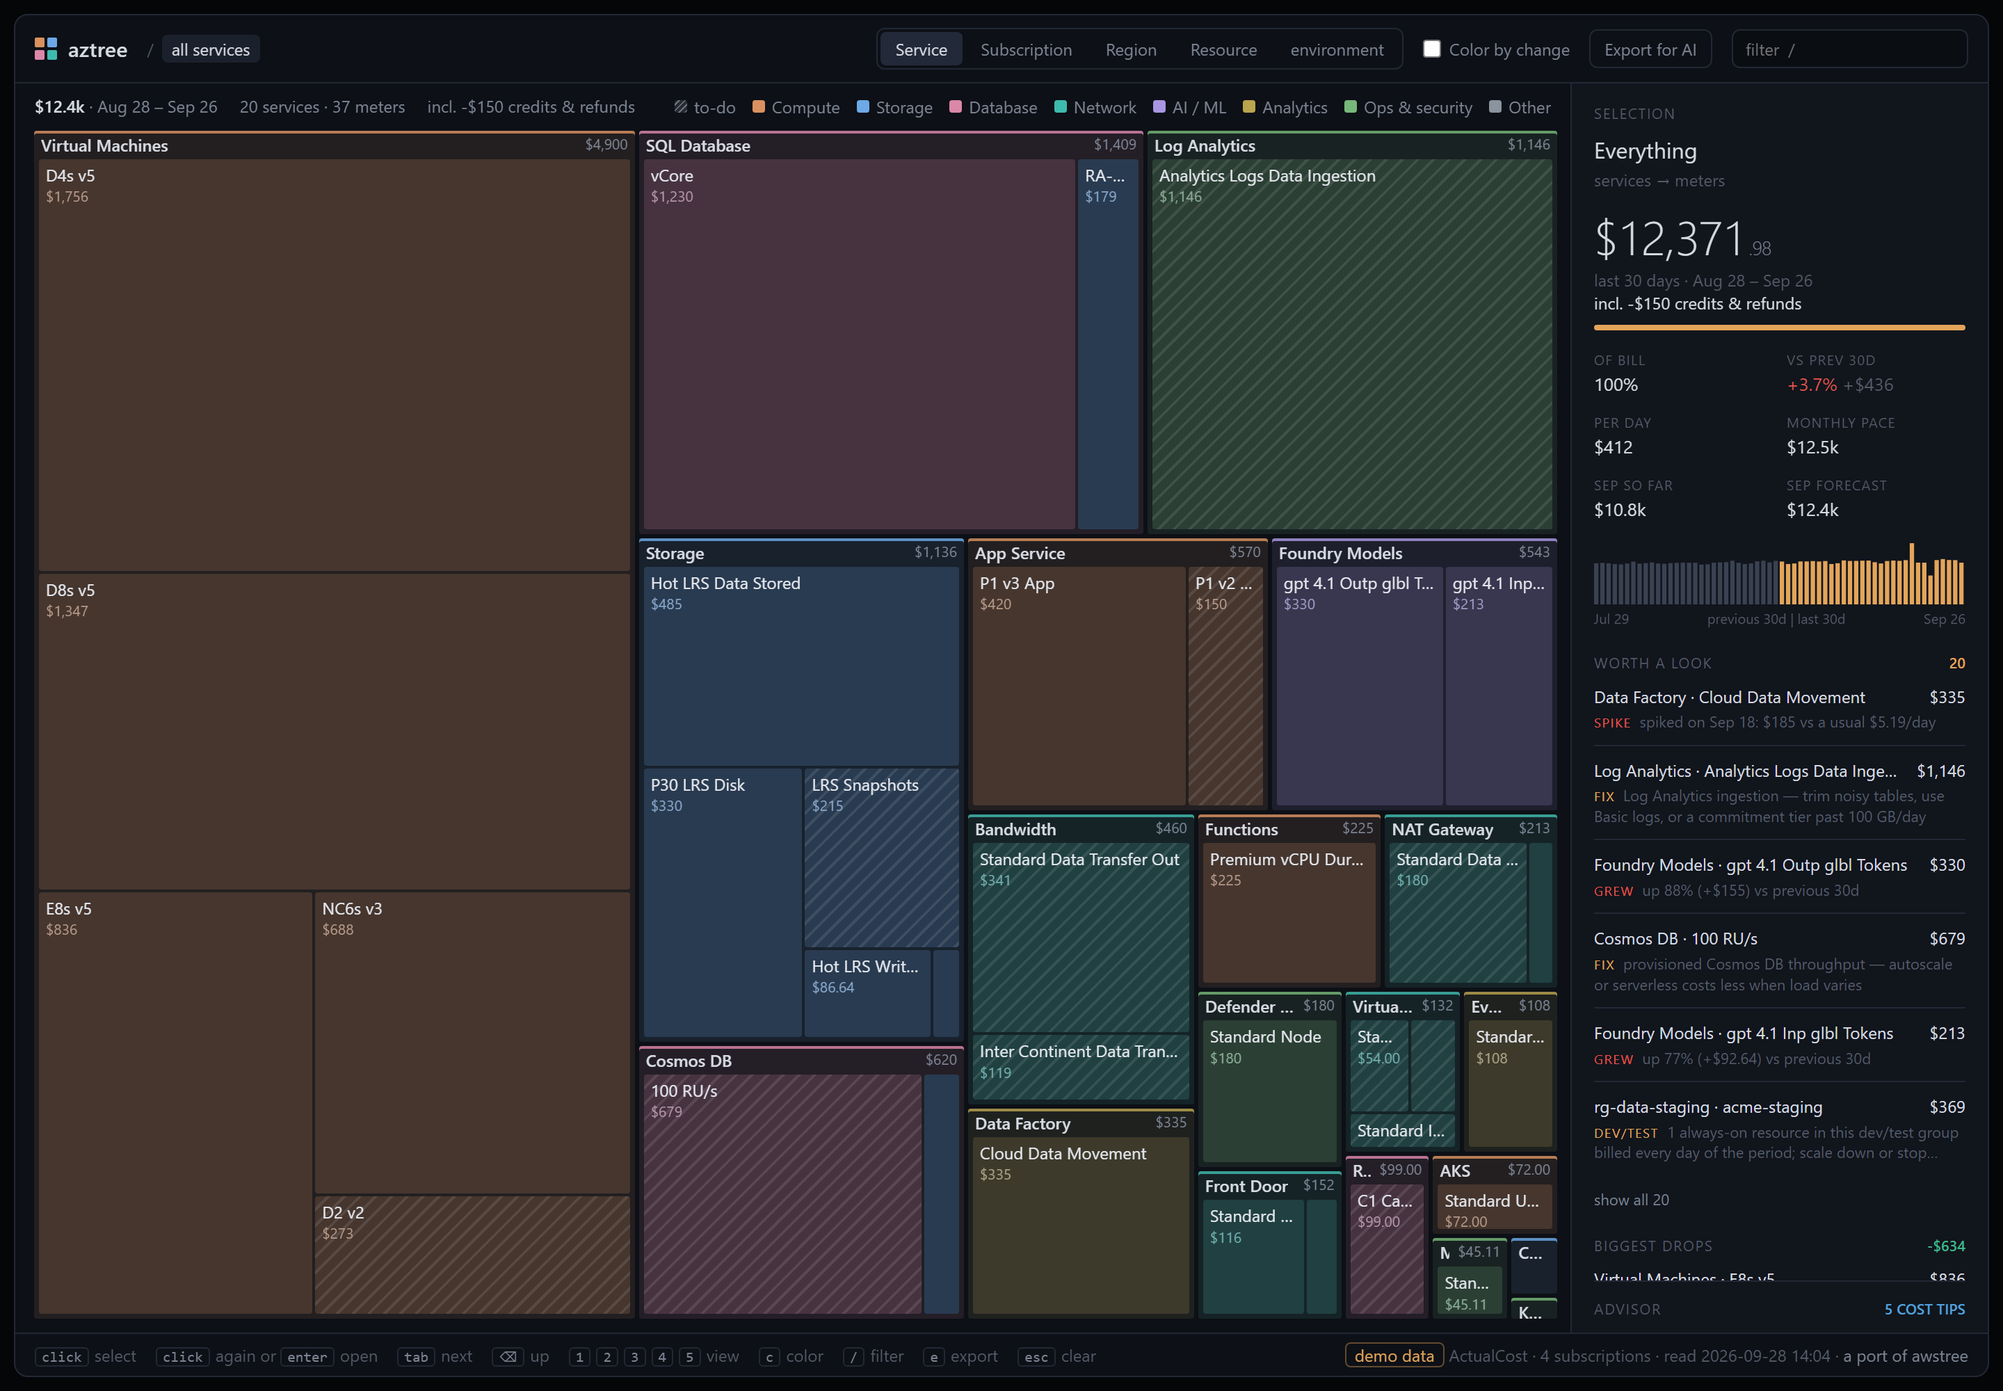
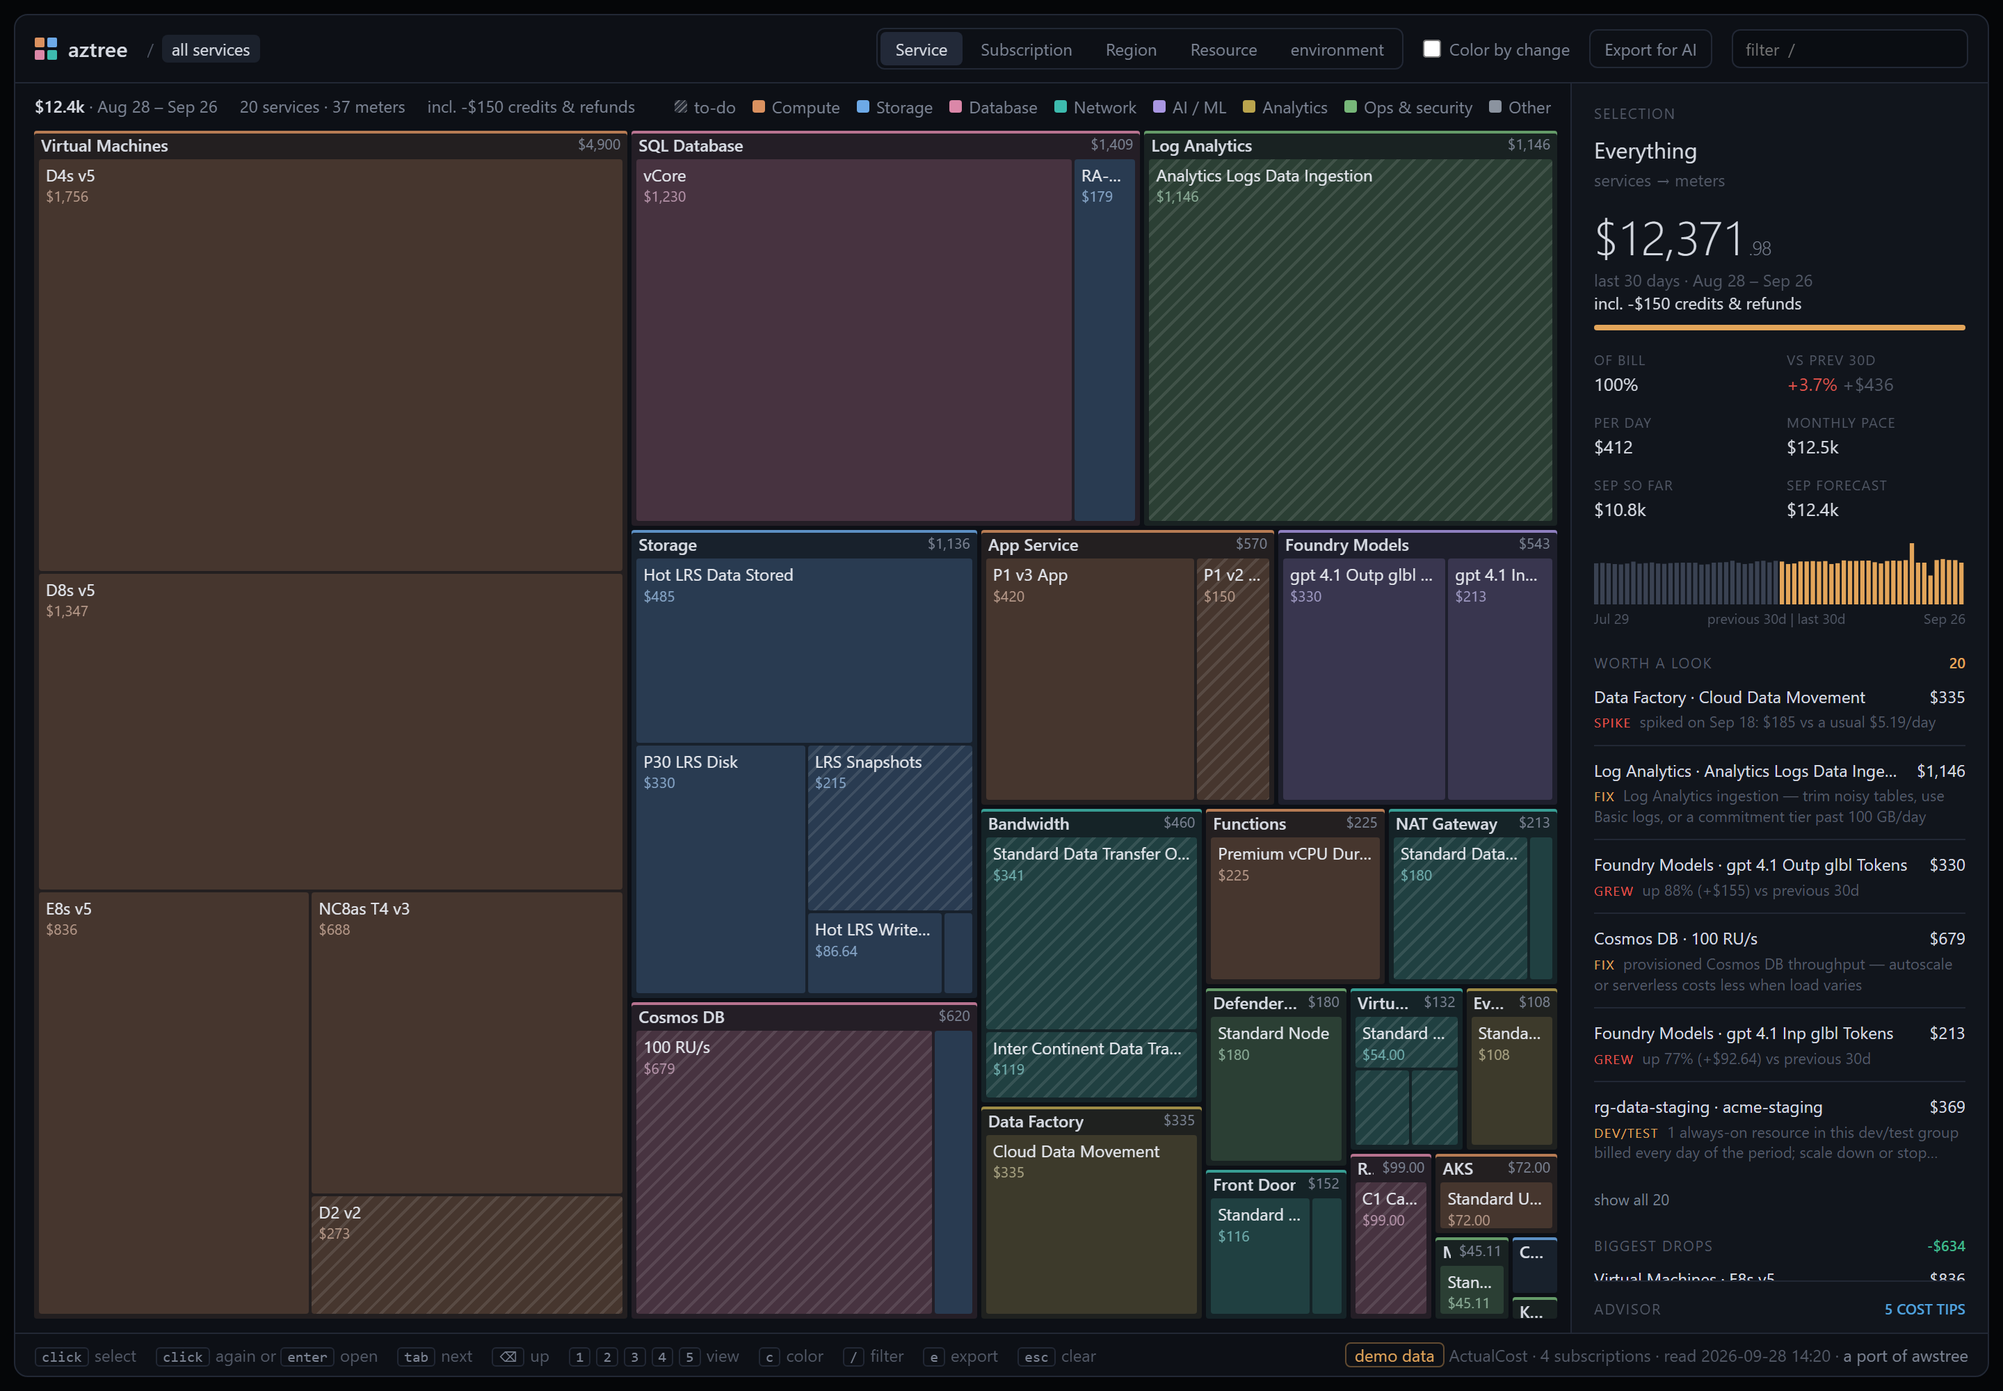
Fix the older review notes that still held
The Azure CLI's output is read as UTF-8, server errors aren't logged as
throttling, Advisor keeps reservations for different regions apart,
constrained and isolated VM sizes (DS13-4 v2, E64i v3) match their
rules, a refund bigger than a service's usage no longer hides that
service's meters, only the subscriptions that fell back to period
totals lose the daily chart, the export names them, the spike hint's
day_cost is named plainly, and the demo no longer runs a retired GPU
series.

Changed region(s): [[0.2812, 0.093, 0.7812, 0.961], [0.1562, 0.868, 0.1875, 0.899], [0.1562, 0.651, 0.1875, 0.682]]

diff --git a/aztree/viewer.html b/aztree/viewer.html
@@ -284,9 +284,12 @@ function buildTree(viewKey, filter, collapse = true) {
       for (const c of n.children) { total(c); for (let i = 0; i < N; i++) n.daily[i] += c.daily[i]; }
       // credits and refunds can't be drawn as boxes, but they are in the totals: keep count of them
       n.credits = n.children.reduce((s, c) => s + c.credits, 0);
-      n.gone = n.children.filter(c => c.cur < 0.005 && c.prev >= 0.005); // spent before, nothing now: no box, still news
-      n.children = n.children.filter(c => c.cur >= 0.005).sort((a, b) => b.cur - a.cur);
+      // a box's area is what its boxes spent, so a refund bigger than a service's usage can't hide the service's meters
+      const size = c => c.size ?? c.cur;
+      n.gone = n.children.filter(c => size(c) < 0.005 && c.prev >= 0.005); // spent before, nothing now: no box, still news
+      n.children = n.children.filter(c => size(c) >= 0.005).sort((a, b) => size(b) - size(a));
       n.hit = n.children.some(c => c.hit);
+      n.size = n.children.reduce((s, c) => s + size(c), 0);
     }
     n.prev = 0; n.cur = 0;
     for (let i = 0; i < N; i++) i < SPLIT ? (n.prev += n.daily[i]) : (n.cur += n.daily[i]);
@@ -303,9 +306,9 @@ const UNTAGGED = (DATA.views.tag?.rows || []).filter(r => r.k[0] === "")
 
 // ---------- squarified treemap layout
 function squarify(nodes, x, y, w, h) {
-  const out = [], total = nodes.reduce((s, n) => s + n.cur, 0);
+  const sz = n => n.size ?? n.cur, out = [], total = nodes.reduce((s, n) => s + sz(n), 0);
   if (total <= 0 || w < 1 || h < 1) return out;
-  let items = nodes.map(n => ({ n, a: (n.cur / total) * w * h }));
+  let items = nodes.map(n => ({ n, a: (sz(n) / total) * w * h }));
   const worst = (row, side) => {
     let s = 0, mx = 0, mn = Infinity;
     for (const r of row) { s += r.a; mx = Math.max(mx, r.a); mn = Math.min(mn, r.a); }
@@ -452,10 +455,14 @@ function renderChrome(base) {
 }
 
 // a subscription with too many resources gets one total per resource and period, so no daily chart in that view
-const totalsOnly = () => state.view === "resource" && DATA.resource_fallback?.length > 0;
+// only those subscriptions' boxes lose the chart; the whole view (and old data without names to match) says it for all
+const FALLBACK = new Set((DATA.subscriptions || []).filter(s => (DATA.resource_fallback || []).includes(s.name)).map(s => s.id.toLowerCase()));
+const subOf = n => ((n.kind === "leaf" ? n.parent.key : n.key).match(/^\/subscriptions\/([^/]+)/i) || [])[1]?.toLowerCase();
+const totalsOnly = n => state.view === "resource" && DATA.resource_fallback?.length > 0
+  && (!n || n.kind === "root" || !FALLBACK.size || FALLBACK.has(subOf(n)));
 
 function spark(n) {
-  if (totalsOnly()) return `<div class="note">No daily chart here: this view has period totals only (too many resources for daily detail).</div>`;
+  if (totalsOnly(n)) return `<div class="note">No daily chart here: this view has period totals only (too many resources for daily detail).</div>`;
   const max = Math.max(...n.daily, 0.0001), bw = 100 / N;
   const bars = Array.from(n.daily, (v, i) => {
     const h = Math.max(0, (v / max) * 44);
@@ -533,7 +540,7 @@ const TIPS = DATA.export?.advisor ?? DATA.advisor;
 // "covers SQL Database · vCore ($1,216/mo) + 1 more", or who/what the tip is about
 const tipLine = r => (r.covers?.length
   ? `covers ${shortSvc(r.covers[0].service)} · ${r.covers[0].meter} (${money(r.covers_monthly)}/mo)${r.covers.length > 1 ? ` + ${r.covers.length - 1} more` : ""}`
-  : [r.resource_name, r.sku, Object.hasOwn(TERM, r.term) && TERM[r.term]].filter(Boolean).join(" · "));
+  : [r.resource_name, r.sku, r.region, Object.hasOwn(TERM, r.term) && TERM[r.term]].filter(Boolean).join(" · "));
 function advisorPanel() {
   const recs = TIPS;
   if (!recs) return "";
@@ -549,7 +556,7 @@ function advisorPanel() {
   return `<div class="advh h" data-adv>Advisor <b>${recs.length} cost tip${recs.length > 1 ? "s" : ""}</b></div><section>` +
     top.map((r, i) => row(`data-rec="${i}"`, "var(--advisor)", r.problem, r.solution || r.problem,
       r.annual_savings ? money(r.annual_savings, sym(r.currency || DATA.currency)) + "/yr" : "–", null, esc(tipLine(r)),
-      [r.resource_name, r.sku, Object.hasOwn(TERM, r.term) && TERM[r.term]].filter(Boolean).join(" · "))).join("") +
+      [r.resource_name, r.sku, r.region, Object.hasOwn(TERM, r.term) && TERM[r.term]].filter(Boolean).join(" · "))).join("") +
     showAll("recs", recs.length, SHOWN_RECS) + `</section>`;
 }
 
@@ -597,7 +604,7 @@ function worthALook() {
 function hintText(h) {
   if (h.kind === "devtest") return `${h.resources} always-on ${h.resources === 1 ? "resource" : "resources"} in this dev/test group billed every day of the period; scale down or stop outside working hours, or go serverless`;
   if (h.kind === "grower") return h.previous < 0.01 ? "new this period" : `up ${pct(h.change / h.previous)} (+${money(h.change)}) vs previous ${DAYS}d`;
-  if (h.kind === "spike") return `spiked on ${day(h.date)}: ${money(h.day)} vs a usual ${money(h.usual)}/day`;
+  if (h.kind === "spike") return `spiked on ${day(h.date)}: ${money(h.day_cost)} vs a usual ${money(h.usual)}/day`;
   if (h.kind === "steady") return `steady at about ${money(h.monthly)}/mo on ${h.meters.join(", ")}: a reservation or savings plan could cut it`;
   return h.reason || "";
 }

diff --git a/aztree/__init__.py b/aztree/__init__.py
@@ -70,7 +70,7 @@ def az_cli(args, run=subprocess.run, az_path=None):
     path = az_path or shutil.which("az")
     if not path:
         die("need the Azure CLI (https://aka.ms/azcli), or a token in AZURE_ACCESS_TOKEN.")
-    r = run([path, *args], capture_output=True, text=True)
+    r = run([path, *args], capture_output=True, text=True, encoding="utf-8", errors="replace")  # az writes UTF-8
     if r.returncode:
         err = r.stderr.strip()
         hint = "\n  -> Log in first: `az login`." if "login" in err.lower() or "expired" in err.lower() else ""
@@ -200,7 +200,8 @@ class Azure:
                     self.log(f"    ({qpu} QPU consumed)")
             if (status == 429 or status >= 500) and attempt < MAX_TRIES:
                 wait = retry_after(resp_headers)
-                self.log(f"    Azure is throttling us (HTTP {status}); waiting {wait}s ...")
+                why = "Azure is throttling us" if status == 429 else "Azure had a server error"
+                self.log(f"    {why} (HTTP {status}); waiting {wait}s ...")
                 self.sleep(wait)
                 continue
             if status >= 400:
@@ -569,7 +570,7 @@ DEMO = [
     ("Virtual Machines", "D8s v5", 44, 0.1, [(P, "us east", "mc_rg-aks-prod_aks-prod_eastus",
                                              "microsoft.compute/virtualmachinescalesets/aks-nodepool1-vmss", 1)]),
     ("Virtual Machines", "E8s v5", 38, -0.7, [(D, "eu west", "rg-etl", f"{VM}/vm-etl-worker", 1)]),  # scaled down: a drop
-    ("Virtual Machines", "NC6s v3", 22, 0.3, [(D, "us east", "rg-ml", f"{VM}/vm-gpu-train", 1)]),
+    ("Virtual Machines", "NC8as T4 v3", 22, 0.3, [(D, "us east", "rg-ml", f"{VM}/vm-gpu-train", 1)]),  # NCv3 retired in 2025
     ("Virtual Machines", "D2 v2", 9, 0, [(S, "us east", "rg-legacy", f"{VM}/vm-legacy-ftp", 1)]),
     ("Azure Kubernetes Service", "Standard Uptime SLA", 2.4, 0, [(P, "us east", "rg-aks-prod",
                                                                   "microsoft.containerservice/managedclusters/aks-prod", 1)]),
@@ -729,9 +730,9 @@ def demo(days, today=None):
 # Known money pits: (service pattern, meter pattern, why, monthly floor). First match wins; a rule with a floor only
 # fires once the meter runs at least that much a month. `{profiles}` in a reason is filled in from the monthly amount.
 VM_END = r"(?:$|/| Low Priority| Spot| Promo)"
-RETIRING_MAY_2028 = r"^(?:DS?\d+(?: v2)?|L\d+s)" + VM_END  # D, Ds, Dv2, Dsv2, Ls
+RETIRING_MAY_2028 = r"^(?:DS?\d+(?:-\d+)?(?: v2)?|L\d+s)" + VM_END  # D, Ds, Dv2, Dsv2 (and constrained DS13-4 v2), Ls
 RETIRING_NOV_2028 = r"^(?:(?:Basic[ ._])?A\d+m?(?: v2)?|F\d+s?(?: v2)?|L\d+s v2|GS?\d+|B\d+[a-z]*)" + VM_END  # Av2, F*, Lsv2, G*, B v1
-NO_NEW_RESERVATIONS = r"^[DE]\d+s? v3" + VM_END  # Dv3, Dsv3, Ev3, Esv3
+NO_NEW_RESERVATIONS = r"^[DE]\d+(?:-\d+)?(?:i|s|is)? v3" + VM_END  # Dv3, Dsv3, Ev3, Esv3, constrained E16-4s, isolated E64i/E64is
 PITS = [
     (r"^(?:Log Analytics|Azure Monitor)$", r"^(?!Basic |Auxiliary ).*Data Ingestion",
      "Log Analytics ingestion — trim noisy tables, use Basic logs, or a commitment tier past 100 GB/day", 0),
@@ -808,11 +809,12 @@ def advisor_rec(p, target):
         "resource_type": p.get("impactedField"),
         "sku": ext.get("displaySKU") or ext.get("sku") or ext.get("targetSku"),
         "term": ext.get("term"),
+        "region": ext.get("region") or ext.get("location"),  # a reservation is per region
         "annual_savings": float(savings) if savings not in (None, "") else None,
         "currency": ext.get("savingsCurrency"),
         "subscription": target["name"],
     }
-    return (p.get("recommendationTypeId"), resource, rec["sku"]), rec
+    return (p.get("recommendationTypeId"), resource, rec["sku"], rec["region"]), rec
 
 
 # ---------------------------------------------------------------- AI export
@@ -822,7 +824,9 @@ AI_INSTRUCTIONS = (
     "(ActualCost books reservation and savings plan purchases on the day they were bought; AmortizedCost spreads them "
     "over the term). `current` is the most recent period and `previous` is the equally long period before it. "
     "Line items are Azure meters grouped by service; `totals.credits_and_refunds` is the part of `current` that comes "
-    "from negative line items (credits, refunds). `flags` are known cost traps matched on meter names. `hints` is the "
+    "from negative line items (credits, refunds). `resource_fallback` names subscriptions with so many resources that "
+    "aztree read one total per resource and period for them: their resource groups' amounts are right, but daily "
+    "detail and dev/test always-on checks aren't available there. `flags` are known cost traps matched on meter names. `hints` is the "
     "list the page shows under Worth a look: news (growers, one-off spikes) taking turns with to-dos (money pits, "
     "always-on compute in dev/test groups, idle resources, steady spend worth committing). `advisor` holds "
     "Azure Advisor's cost recommendations, one per kind, resource and SKU, with the largest annual saving Advisor "
@@ -1094,7 +1098,7 @@ def summarize(data):
         s = spike(r["d"], split, floor=max(10, grand * 0.0025))
         if s and tuple(r["k"]) in items and items[tuple(r["k"])]["current"] > 0:  # a charge refunded in full is no news
             spiked[tuple(r["k"])] = hint("spike", items[tuple(r["k"])], s["excess"], date=days[s["day"]],
-                                         day=money(r["d"][s["day"]]), usual=money(s["usual"]))
+                                         day_cost=money(r["d"][s["day"]]), usual=money(s["usual"]))
     advisor = data.get("advisor")
     if advisor is not None:
         advisor = [link_tip(rec, line_items, n) for rec in advisor]
@@ -1147,6 +1151,7 @@ def summarize(data):
         "hints": hints,
         "advisor": advisor,
         "advisor_error": data.get("advisor_error"),
+        "resource_fallback": data.get("resource_fallback") or [],
         "graph_error": data.get("graph_error"),
         "forecast": data.get("forecast"),
         "line_items": line_items,

diff --git a/tests/test_aztree.py b/tests/test_aztree.py
@@ -1794,7 +1794,7 @@ class SpikeTest(unittest.TestCase):
     def test_a_one_day_charge_is_a_spike(self):
         (spike,) = self.spikes(("Azure Data Factory v2", "Cloud Data Movement", series(at={45: 60.0})))
         data = make_data([self.STEADY])
-        self.assertEqual((spike["meter"], spike["date"], spike["day"], spike["usual"], spike["amount"]),
+        self.assertEqual((spike["meter"], spike["date"], spike["day_cost"], spike["usual"], spike["amount"]),
                          ("Cloud Data Movement", data["days"][45], 60.0, 5.0, 55.0))
 
     def test_a_charge_on_a_meter_that_is_usually_zero_is_a_spike(self):
@@ -2437,6 +2437,80 @@ class DeferredMinorsTest(unittest.TestCase):
         page = self.run_page(make_data(self.DROPPED), "service", click="[data-drop]:1")  # Old disk: Storage is still there
         self.assertIn('<span class="cur">Storage</span>', page["crumbs"])
         self.assertEqual(page["history"][-1][1]["zoom"], "Storage")
+
+
+class CleanupTest(unittest.TestCase):
+    """Older review notes, checked against the code and reproduced before each fix."""
+    render = ViewerTest.render
+    run_page = ViewerTest.run_page
+
+    def test_the_export_says_which_subscriptions_have_period_totals(self):
+        s = aztree.summarize(make_data([("Storage", "LRS", [5] * 6)], resource_fallback=["acme-prod"]))
+        self.assertEqual(s["resource_fallback"], ["acme-prod"])
+        self.assertIn("resource_fallback", aztree.AI_INSTRUCTIONS)
+
+    def test_reservations_for_two_regions_stay_apart(self):
+        items = [advisor_item("Buy reserved instance", "/subscriptions/aaaa-1", "aaaa-1", "D4s v5", "P1Y", savings)
+                 for savings in (100, 200)]
+        items[0]["properties"]["extendedProperties"]["region"] = "eastus"
+        items[1]["properties"]["extendedProperties"]["region"] = "westeurope"
+        send = FakeSend((200, {}, json.dumps({"value": items}).encode()))
+        self.assertEqual(len(aztree.advisor_recs(client(send), aztree.subscription_target(PROD))), 2)
+
+    def test_cli_output_is_read_as_utf8(self):
+        # the Azure CLI writes UTF-8; a cp1252 Windows locale would turn "Milanović" into "MilanoviÄ‡"
+        seen = {}
+
+        def run(cmd, **kw):
+            seen.update(kw)
+            return SimpleNamespace(returncode=0, stdout="ok", stderr="")
+
+        aztree.az_cli(["account", "show"], run=run, az_path="az")
+        self.assertEqual(seen.get("encoding"), "utf-8")
+
+    def test_the_demo_has_no_retired_gpu_series(self):
+        meters = {r["k"][1] for r in aztree.demo(30, today=TODAY)["views"]["service"]["rows"]}
+        self.assertNotIn("NC6s v3", meters)  # NCv3 retired on 30 Sep 2025
+
+    def test_server_errors_are_not_called_throttling(self):
+        lines = []
+        send = FakeSend(error(503, "ServiceUnavailable", "try later"), page(QueryTest.COLS, []))
+        aztree.query(client(send, log=lines.append), "/subscriptions/s1", "2026-09-22", "2026-09-27", ["ServiceName", "Meter"], "ActualCost")
+        self.assertTrue(any("503" in line for line in lines), lines)
+        self.assertFalse(any("throttl" in line for line in lines), lines)
+
+    def test_constrained_and_isolated_sizes_match_the_rules(self):
+        self.assertIn("D, Ds, Dv2, Dsv2", aztree.pit("Virtual Machines", "DS13-4 v2"))
+        for meter in ("E64i v3", "E64is v3", "E16-4s v3", "D8-2s v3"):
+            with self.subTest(meter=meter):
+                self.assertIn("Dv3 and Ev3", aztree.pit("Virtual Machines", meter) or "")
+        self.assertIsNone(aztree.pit("Virtual Machines", "E64s v5"))
+
+    def test_a_spike_names_its_days_cost_plainly(self):
+        (h,) = [h for h in aztree.summarize(aztree.demo(30, today=TODAY))["hints"] if h["kind"] == "spike"]
+        self.assertIn("day_cost", h)
+        self.assertNotIn("day", h)  # read like a day index
+
+    @unittest.skipUnless(aztree.shutil.which("node"), "node not installed")
+    def test_a_refund_bigger_than_the_usage_keeps_the_positive_meters_on_the_map(self):
+        data = make_data([("Azure Cosmos DB", "100 RU/s", [10] * 6), ("Azure Cosmos DB", "Reservation refund", [0, 0, 0, -50, 0, 0]),
+                          ("Storage", "LRS", [5] * 6)])
+        names = [d["name"] for d in self.run_page(data, "service")["drawn"]]
+        self.assertIn("100 RU/s", names)  # Cosmos DB nets to -$20, but it still ran $30 of RU/s
+
+    @unittest.skipUnless(aztree.shutil.which("node"), "node not installed")
+    def test_only_fallback_subscriptions_lose_the_daily_chart(self):
+        other = "/subscriptions/bbbb-2/resourcegroups/rg-other"
+        data = make_data([("Storage", "LRS", [5] * 6)],
+                         resource_rows=[(RG, RG + "/providers/x/y/a", [3, 0, 0, 4, 0, 0]), (other, other + "/providers/x/y/b", [1] * 6)],
+                         resource_fallback=["acme-prod"],
+                         subscriptions=[{"id": "aaaa-1", "name": "acme-prod", "currency": "USD"},
+                                        {"id": "bbbb-2", "name": "acme-dev", "currency": "USD"}])
+        data["views"]["resource"]["names"][other] = "rg-other"
+        page = self.run_page(data, "resource", click={"map": "click", "name": "rg-other"})
+        self.assertIn("<svg", page["side"])
+        page = self.run_page(data, "resource", click={"map": "click", "name": "rg-app"})
+        self.assertIn("period totals", page["side"])
 
 
 class ExplainTest(unittest.TestCase):
